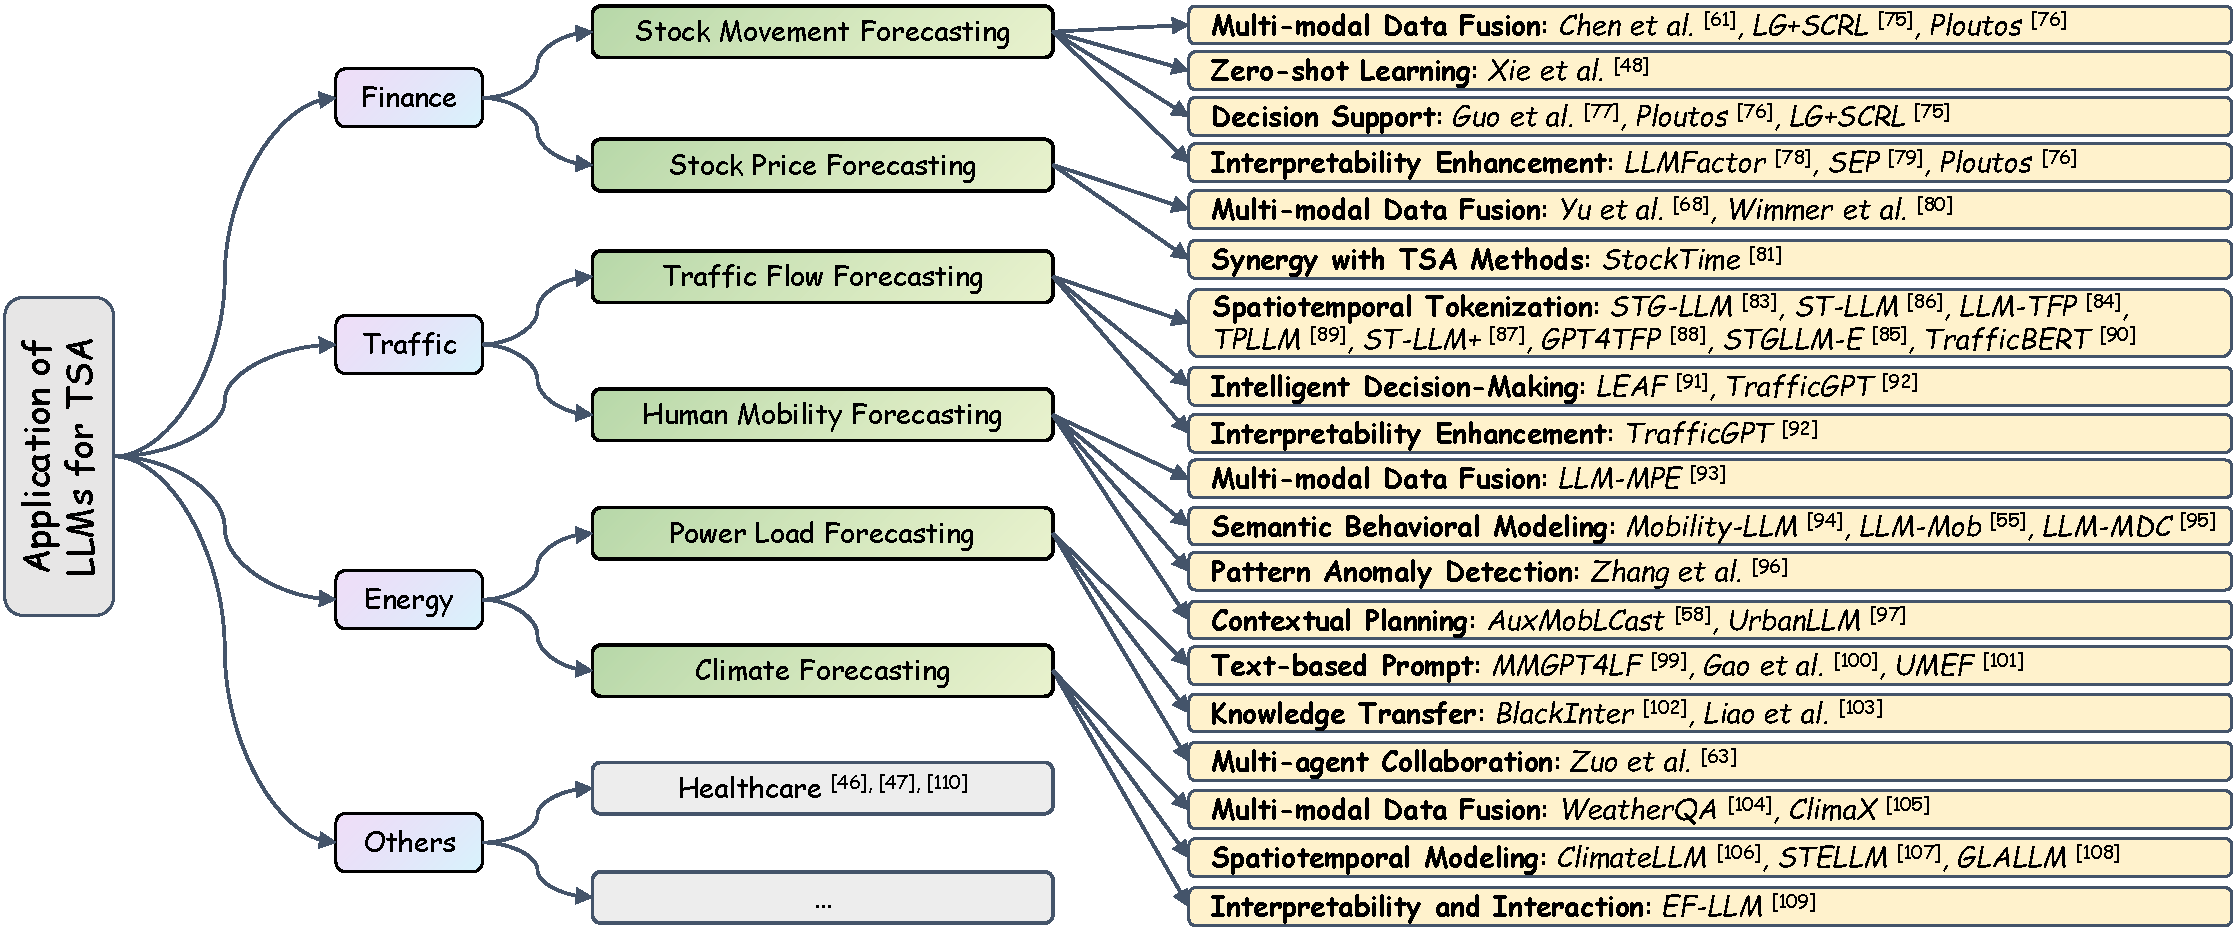
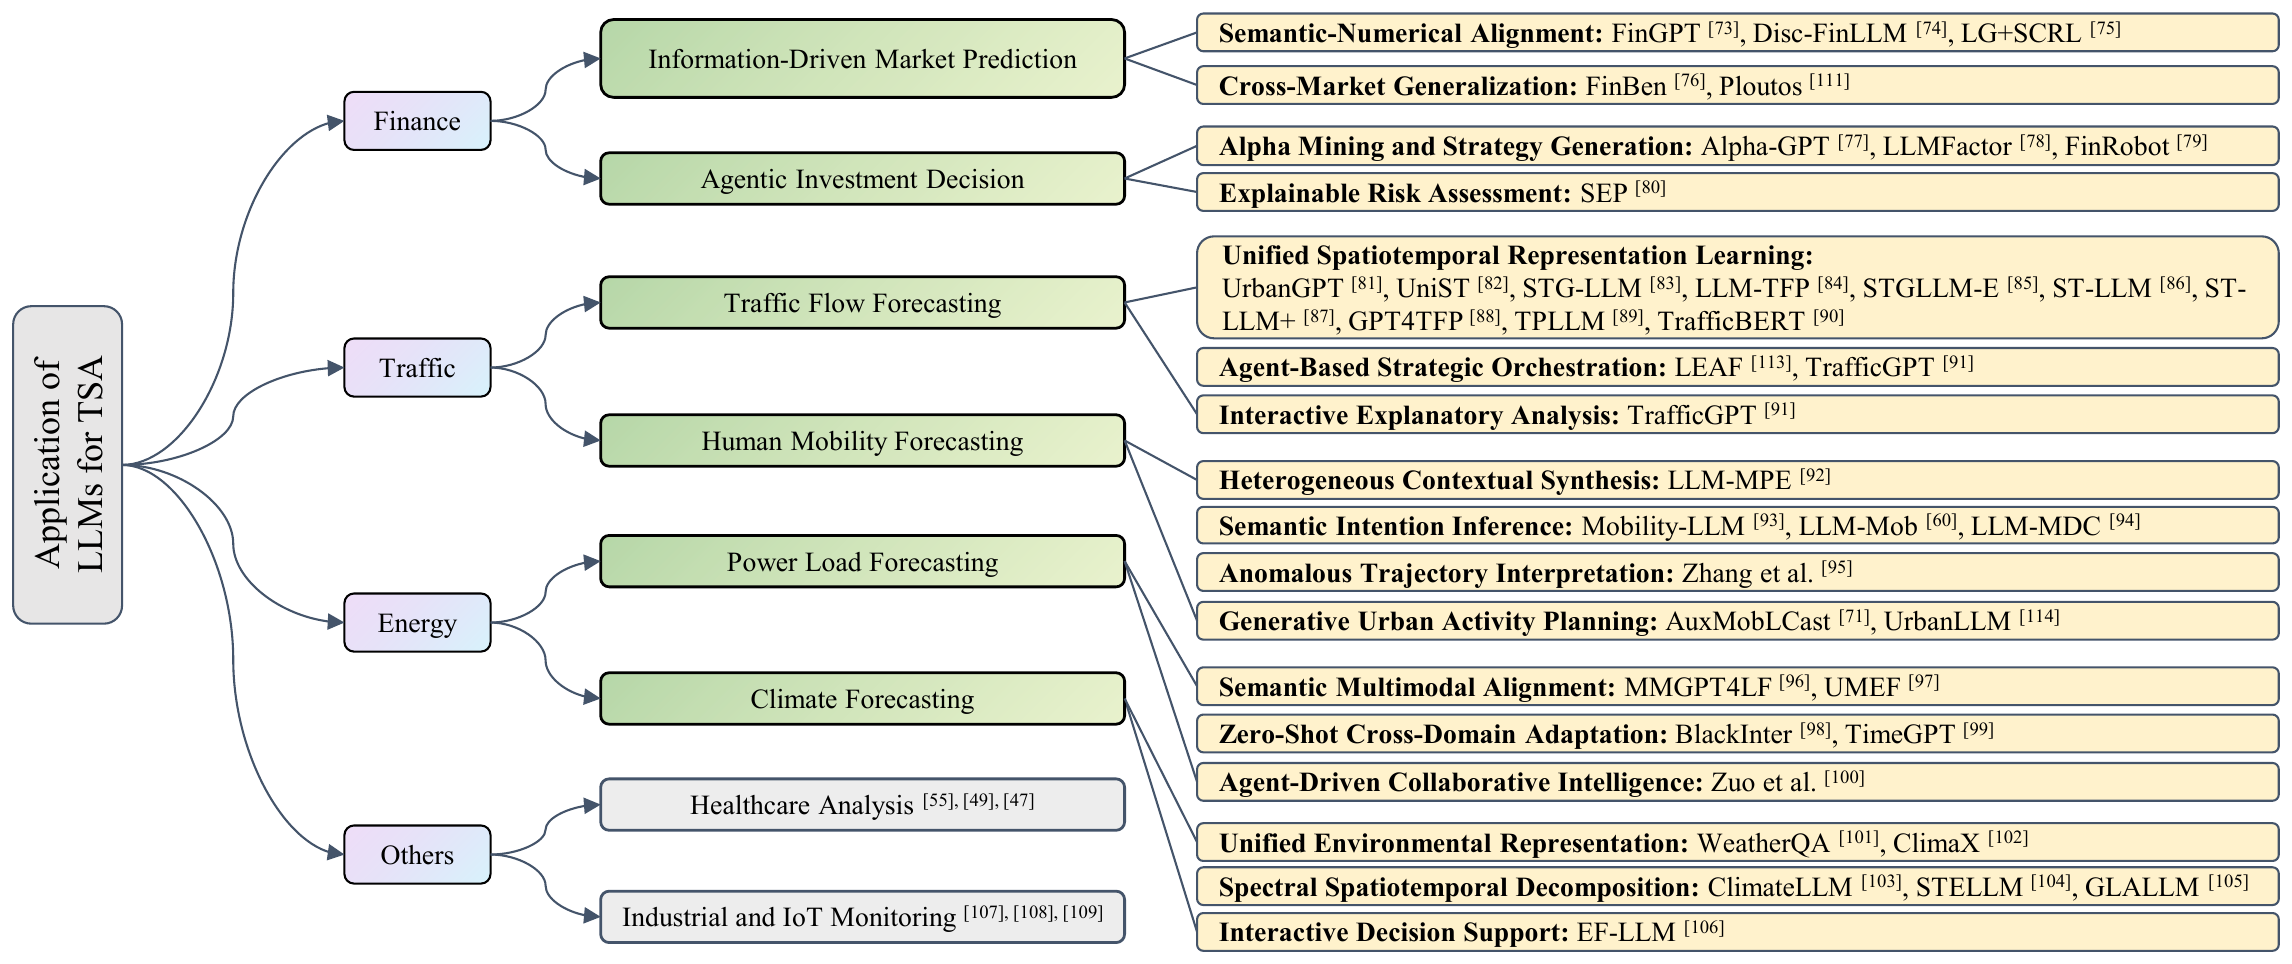
Sync repo with final survey manuscript: taxonomy, papers, figures
- Align the three LLM-role names with the paper (Direct Inference Engines /
  Static Feature Enhancers / Dynamic Task Controllers); keep old names as subtitles
- Add methods: LLM-ABBA, TimeRAF, MetaIndux-TS, prototype-guided TSFM normalization,
  AV2TS, text-prompt traffic MLLM, LLM-informed ECG
- Add surveys (FM tutorial-and-survey, Empowering-TSA-with-FMs) and TSRBench benchmark
- Fix venues: TableTime (CIKM 2025), TENT (IEEE TMC 2026), MedualTime (IJCAI 2025),
  UrbanLLM (EMNLP), Transfer-NL-to-ECG (EACL), Embracing-LLMs-in-traffic (ACL 2025)
- Fix LLM4FTS authors (Zian Liu, Renjun Jia); update FinTSB to Frontiers of
  Computer Science 2026 (published); add PeakFocus to the BibTeX block
- Add Figure 2 (role architectures); re-export framework/application PNGs and trim borders
- Update header counts and Recent Update note

diff --git a/README.md b/README.md
@@ -5,8 +5,8 @@
 
 **📈 A Comprehensive Collection of Papers, Codes & Resources for Time Series Analysis**
 
-[![Paper Count](https://img.shields.io/badge/Papers-240+-blue)](https://github.com/TongjiFinLab/awesome-time-series-forecasting)
-[![Last Update](https://img.shields.io/badge/Last%20Update-April%202026-green)](https://github.com/TongjiFinLab/awesome-time-series-forecasting)
+[![Paper Count](https://img.shields.io/badge/Papers-250+-blue)](https://github.com/TongjiFinLab/awesome-time-series-forecasting)
+[![Last Update](https://img.shields.io/badge/Last%20Update-June%202026-green)](https://github.com/TongjiFinLab/awesome-time-series-forecasting)
 [![Stars](https://img.shields.io/badge/Stars%3F-180+-green.svg)](https://github.com/TongjiFinLab/awesome-time-series-forecasting/graphs/commit-activity)
 
 </div>
@@ -24,6 +24,12 @@
 **🔥 Collaboration:**  
 If you notice any missing content or would like to contribute, please feel free to reach out!
 
+> ✨ **Recent Update (June 2026)**
+>
+> Updated the papers and figures.
+>
+> ---
+>
 > ✨ **Recent Update (April 5, 2026)**
 >
 > We have added **~40 new papers** covering the latest advances from **ICLR 2026, ICML 2025, NeurIPS 2025, KDD 2025/2026, AAAI 2026, IJCAI 2025**, and more. Key additions include:
@@ -78,9 +84,9 @@ If you find this project helpful, please don't forget to give it a ⭐ Star to s
 
 - [A. Large Language Models](#a-large-language-models)
   - [Taxonomy of Roles and Unified Workflows](#taxonomy-of-roles-and-unified-workflows)
-    - [Role 1: Fine-tune-based Inference Engines](#role-1-fine-tune-based-inference-engines)
-    - [Role 2: Enhancer based on TSA Methods](#role-2-enhancer-based-on-tsa-methods)
-    - [Role 3: Hybrid Collaborators](#role-3-hybrid-collaborators)
+    - [Role 1: Direct Inference Engines](#role-1-direct-inference-engines)
+    - [Role 2: Static Feature Enhancers](#role-2-static-feature-enhancers)
+    - [Role 3: Dynamic Task Controllers](#role-3-dynamic-task-controllers)
   - [Application](#application)
     - [Finance](#finance)
     - [Traffic](#traffic)
@@ -110,6 +116,13 @@ If you find this project helpful, please don't forget to give it a ⭐ Star to s
 </div>
 
 ### Taxonomy of Roles and Unified Workflows
+
+<div align="center">
+  <img src="figs/role_arch.png" alt="Architectural diagrams of the three LLM roles" width=800/>
+</div>
+<div align="center">
+  <b>Figure 2: Architectural diagrams of the three roles — (a) Direct Inference Engine, (b) Static Feature Enhancer, and (c) Dynamic Task Controller — illustrating how deeply the LLM is integrated into the TSA pipeline.</b>
+</div>
 
 <div align="center"><sub>
 
@@ -158,11 +171,12 @@ If you find this project helpful, please don't forget to give it a ⭐ Star to s
 </sub></div>
 
 
-<sub>***Note**: **IE** stands for Inference Engine, **E** stands for Enhancer, **IE+E** stands for the combination of Inference Engine and Enhancer, and **HC** stands for Hybrid Collaborator.*</sub>
+<sub>***Note**: Roles follow the survey taxonomy — **IE** = Inference Engine (Direct Inference Engine), **E** = Enhancer (Static Feature Enhancer), **IE+E** = the combination of the two, and **HC** = Hybrid Collaborator (Dynamic Task Controller).*</sub>
 
 
 
-#### Role 1: Fine-tune-based Inference Engines 
+#### Role 1: Direct Inference Engines
+*(a.k.a. Fine-tune-based Inference Engines)* 
 
 ##### Tokenization Approaches <!-- omit in toc -->
 
@@ -175,7 +189,7 @@ If you find this project helpful, please don't forget to give it a ⭐ Star to s
 
 - **MedualTime: A Dual-Adapter Language Model for Medical Time Series-Text Multimodal Learning**  
   Ye, Jiexia and Zhang, Weiqi and Li, Ziyue and Li, Jia and Zhao, Meng and Tsung, Fugee  
-  arXiv, 2024.  
+  IJCAI 2025.  
   [Paper](https://arxiv.org/abs/2406.06620) | [Code](https://github.com/start2020/MedualTime)
 
 
@@ -184,6 +198,11 @@ If you find this project helpful, please don't forget to give it a ⭐ Star to s
   IEEE TKDE, 2023.  
   [Paper](https://ieeexplore.ieee.org/document/10123956) | [Code](https://github.com/haoxue2/PromptCast)
 
+
+- **LLM-ABBA: Understanding Time Series via Symbolic Approximation**  
+  Xinye Chen, Erin Carson, Cheng Kang  
+  IEEE Transactions on Signal Processing, 2026.  
+  [Paper](https://doi.org/10.1109/TSP.2026.3662011)
 
 ###### Patch-level Tokenization <!-- omit in toc -->
 
@@ -254,7 +273,7 @@ If you find this project helpful, please don't forget to give it a ⭐ Star to s
 
 - **TableTime: Reformulating Time Series Classification as Training-Free Table Understanding with Large Language Models**  
   Jiahao Wang, Mingyue Cheng, Qingyang Mao, Yitong Zhou, Feiyang Xu, Xin Li  
-  arXiv 2024.  
+  CIKM 2025.  
   [Paper](https://arxiv.org/abs/2411.15737)
 
 - **The Wall Street Neophyte: A Zero-Shot Analysis of ChatGPT Over MultiModal Stock Movement Prediction Challenges**  
@@ -328,7 +347,7 @@ If you find this project helpful, please don't forget to give it a ⭐ Star to s
 
 - **Transfer knowledge from natural language to electrocardiography: Can we detect cardiovascular disease through language models?**  
   Jielin Qiu, William Han, Jiacheng Zhu, Mengdi Xu, Michael Rosenberg, Emerson Liu, Douglas Weber, Ding Zhao  
-  arXiv 2023.  
+  Findings of EACL, 2023.  
   [Paper](https://arxiv.org/abs/2301.09017) | [Code](https://github.com/Jielin-Qiu/Transfer_Knowledge_from_Language_to_ECG)
 
 - **S²IP-LLM: Semantic space informed prompt learning with LLM for time series forecasting**  
@@ -350,7 +369,7 @@ If you find this project helpful, please don't forget to give it a ⭐ Star to s
 
 - **Tent: Connect language models with IoT sensors for zero-shot activity recognition**  
   Yunjiao Zhou, Jianfei Yang, Han Zou, Lihua Xie  
-  arXiv 2023.  
+  IEEE Transactions on Mobile Computing, 2026.  
   [Paper](https://arxiv.org/abs/2311.08245)
 
 ##### Fine-tuning <!-- omit in toc -->
@@ -429,7 +448,8 @@ If you find this project helpful, please don't forget to give it a ⭐ Star to s
   ICML 2024.  
   [Paper](https://openreview.net/pdf?id=qwQVV5R8Y7) | [Code](https://github.com/panzijie825/S2IP-LLM)
 
-#### Role 2: Enhancer based on TSA Methods
+#### Role 2: Static Feature Enhancers
+*(a.k.a. Enhancer based on TSA Methods)*
 
 ##### Enhancement of Time Series Data <!-- omit in toc -->
 
@@ -491,6 +511,11 @@ If you find this project helpful, please don't forget to give it a ⭐ Star to s
   arXiv 2025.  
   [Paper](https://arxiv.org/abs/2508.11954)
 
+- **AV2TS: A Multivariate Time Series Modeling Framework for Audio-Visual Segmentation**  
+  Li Shen, Yangzhu Wang, Xuyi Fan, Yuning Wei, Huaxin Qiu  
+  IEEE Transactions on Multimedia, 2026.  
+  [Paper](https://doi.org/10.1109/TMM.2026.3654457)
+
 ##### Enhancement of Interpretability <!-- omit in toc -->
 
 - **Can "Slow-thinking" LLMs Make Time Series Predictions More Reliable? Enhancing LLM-based Time Series Forecasting via Chain-of-Thought Prompting**  
@@ -513,7 +538,8 @@ If you find this project helpful, please don't forget to give it a ⭐ Star to s
   arXiv 2025.  
   [Paper](https://arxiv.org/pdf/2507.15066?)
 
-#### Role 3: Hybrid Collaborators
+#### Role 3: Dynamic Task Controllers
+*(a.k.a. Hybrid Collaborators)*
 
 - **Domain-Oriented Time Series Inference Agents for Reasoning and Automated Analysis**  
   Wen Ye, Wei Yang, Defu Cao, Yizhou Zhang, Lumingyuan Tang, Jie Cai, Yan Liu  
@@ -562,7 +588,7 @@ If you find this project helpful, please don't forget to give it a ⭐ Star to s
 </div>
 
 <div align="center">
-  <b>Figure 2: An overview of the application of LLMs for TSA.</b>
+  <b>Figure 3: An overview of the application of LLMs for TSA.</b>
 </div>
 
 #### Finance
@@ -627,7 +653,7 @@ If you find this project helpful, please don't forget to give it a ⭐ Star to s
   [Paper](https://arxiv.org/pdf/2409.08281?)
 
 - **LLM4FTS: Enhancing Large Language Models for Financial Time Series Prediction**  
-  Dawei Cheng et al.  
+  Zian Liu, Renjun Jia  
   arXiv 2025.  
   [Paper](https://arxiv.org/abs/2505.02880)
 
@@ -685,13 +711,18 @@ If you find this project helpful, please don't forget to give it a ⭐ Star to s
 
 - **Embracing large language models in traffic flow forecasting**  
   Yusheng Zhao, Xiao Luo, Haomin Wen, Zhiping Xiao, Wei Ju, Ming Zhang  
-  arXiv 2024.  
+  Findings of ACL, 2025.  
   [Paper](https://arxiv.org/pdf/2412.12201)
 
 - **TrafficGPT: Viewing, processing and interacting with traffic foundation models**  
   Siyao Zhang, Daocheng Fu, Wenzhe Liang, Zhao Zhang, Bin Yu, Pinlong Cai, Baozhen Yao  
   Transport Policy, 2024.  
   [Paper](https://www.sciencedirect.com/science/article/pii/S0967070X24000726) | [Code](https://github.com/lijlansg/TrafficGPT)
+
+- **Emergency Events Traffic Flow Forecasting Using Text-Prompt-Guided Multimodal Large Language Models**  
+  Yaxuan Lu, Guangyu Huo, Xiaohui Cui, Boyue Wang, Yong Zhang, Zhiyong Cui  
+  IEEE Transactions on Intelligent Transportation Systems, 2026.  
+  [Paper](https://doi.org/10.1109/TITS.2026.3672914)
 
 #### Human Mobility Forecasting <!-- omit in toc -->
 
@@ -727,7 +758,7 @@ If you find this project helpful, please don't forget to give it a ⭐ Star to s
 
 - **UrbanLLM: Autonomous Urban Activity Planning and Management with Large Language Models**  
   Yifei Jiang, Xinyan Zhu, Jiayu Fan, Hua Wei  
-  arXiv, 2024.  
+  EMNLP 2024.  
   [Paper](https://arxiv.org/pdf/2406.12360) | [Code](https://github.com/JIANGYUE61610306/UrbanLLM/tree/main)
 
 #### Energy
@@ -810,8 +841,13 @@ If you find this project helpful, please don't forget to give it a ⭐ Star to s
 
 - **MedualTime: A Dual-Adapter Language Model for Medical Time Series-Text Multimodal Learning**  
   Ye, Jiexia; Zhang, Weiqi; Li, Ziyue; Li, Jia; Zhao, Meng; Tsung, Fugee  
-  arXiv, 2024.  
+  IJCAI 2025.  
   [Paper](https://arxiv.org/abs/2406.06620) | [Code](https://github.com/start2020/MedualTime)
+
+- **Large Language Model-informed ECG Dual Attention Network for Heart Failure Risk Prediction**  
+  Chen Chen, Lei Li, Marcel Beetz, Abhirup Banerjee, Ramneek Gupta, Vicente Grau  
+  IEEE Transactions on Big Data, 2025.  
+  [Paper](https://arxiv.org/abs/2403.10581)
 
 ## B. Foundation Models
 
@@ -907,6 +943,21 @@ If you find this project helpful, please don't forget to give it a ⭐ Star to s
 - **Are Time Series Foundation Models Ready for Zero-Shot Forecasting?**  
   ICML 2025.  
   [Paper](https://icml.cc/virtual/2025/47480)
+
+- **TimeRAF: Retrieval-Augmented Foundation Model for Zero-Shot Time Series Forecasting**  
+  Huanyu Zhang, Chang Xu, Yi-Fan Zhang, Zhang Zhang, Liang Wang, Jiang Bian  
+  IEEE Transactions on Knowledge and Data Engineering, 2025.  
+  [Paper](https://doi.org/10.1109/TKDE.2025.3579137)
+
+- **MetaIndux-TS: Frequency-Aware AIGC Foundation Model for Industrial Time Series**  
+  Haiteng Wang, Lei Ren, Yikang Li, Yuqing Wang  
+  IEEE Transactions on Neural Networks and Learning Systems, 2025.  
+  [Paper](https://doi.org/10.1109/TNNLS.2025.3577203)
+
+- **Bridging Distribution Gaps in Time Series Foundation Model Pretraining With Prototype-Guided Normalization**  
+  Peiliang Gong, Emadeldeen Eldele, Min Wu, Zhenghua Chen, Xiaoli Li, Daoqiang Zhang  
+  IEEE Transactions on Neural Networks and Learning Systems, 2026.  
+  [Paper](https://doi.org/10.1109/TNNLS.2026.3673975)
 
 ## C. Graph Neural Network-based Models
 
@@ -1252,13 +1303,27 @@ If you find this project helpful, please don't forget to give it a ⭐ Star to s
 
 - **FinTSB: A Comprehensive and Practical Benchmark for Financial Time Series Forecasting**  
   Yifan Hu, Yuante Li, Peiyuan Liu, Yuxia Zhu, Naiqi Li, Tao Dai, Shu-tao Xia, Dawei Cheng, Changjun Jiang  
-  ICAIFW 2025 (Best Paper).  
-  [Paper](https://arxiv.org/abs/2502.18834)
+  Frontiers of Computer Science, 2026 (Best Paper, ICAIFW 2025).  
+  [Paper](https://doi.org/10.1007/s11704-026-51064-5) | [arXiv](https://arxiv.org/abs/2502.18834)
 
 - **Large Models for Time Series and Spatio-Temporal Data: A Survey and Outlook**  
   Ming Jin, Qingsong Wen, Yuxuan Liang, Chaoli Zhang, Siqiao Xue, Xue Wang, James Zhang, Yi Wang, Haifeng Chen, Xiaoli Li, Shirui Pan, Vincent S. Tseng, Yu Zheng, Lei Chen, Hui Xiong  
   arXiv, 2023.  
   [Paper](https://doi.org/10.48550/arXiv.2310.10196)
+
+- **Foundation Models for Time Series Analysis: A Tutorial and Survey**  
+  Yuxuan Liang, Haomin Wen, Yuqi Nie, Yushan Jiang, Ming Jin, Dongjin Song, Shirui Pan, Qingsong Wen  
+  SIGKDD, 2024.  
+  [Paper](https://doi.org/10.1145/3637528.3671451)
+
+- **Empowering Time Series Analysis with Foundation Models: A Comprehensive Survey**  
+  Jiexia Ye, Yongzi Yu, Weiqi Zhang, Le Wang, Jia Li, Fugee Tsung  
+  arXiv 2025.  
+  [Paper](https://arxiv.org/abs/2405.02358)
+
+- **TSRBench: A Comprehensive Multi-task Multi-modal Time Series Reasoning Benchmark for Generalist Models**  
+  arXiv 2026.  
+  [Paper](https://arxiv.org/abs/2601.18744)
 
 
 ## 📚 **Citation**
@@ -1284,11 +1349,13 @@ If you find this project helpful, please don't forget to give it a ⭐ Star to s
   year={2025},
 }
 
-@article{hu2025fintsb,
+@article{hu2026fintsb,
   title={FinTSB: A Comprehensive and Practical Benchmark for Financial Time Series Forecasting}, 
-  author={Yifan Hu and Yuante Li and Peiyuan Liu and Yuxia Zhu and Naiqi Li and Tao Dai and Shu-tao Xia and Dawei Cheng and Changjun Jiang},
-  journal={arXiv preprint arXiv:2502.18834},
-  year={2025},
+  author={Hu, Yifan and Li, Yuante and Liu, Peiyuan and Zhu, Yuxia and Li, Naiqi and Dai, Tao and Xia, Shu-tao and Cheng, Dawei and Jiang, Changjun},
+  journal={Frontiers of Computer Science},
+  year={2026},
+  issn={2095-2228},
+  doi={10.1007/s11704-026-51064-5}
 }
 
 @article{hu2025finmamba,
@@ -1298,8 +1365,7 @@ If you find this project helpful, please don't forget to give it a ⭐ Star to s
   year={2025}
 }
 
-@inproceedings{
-  hu2025timefilter,
+@inproceedings{hu2025timefilter,
   title={TimeFilter: Patch-Specific Spatial-Temporal Graph Filtration for Time Series Forecasting},
   author={Yifan Hu and Guibin Zhang and Peiyuan Liu and Disen Lan and Naiqi Li and Dawei Cheng and Tao Dai and Shu-Tao Xia and Shirui Pan},
   booktitle={ICML},
@@ -1334,11 +1400,18 @@ If you find this project helpful, please don't forget to give it a ⭐ Star to s
   year={2025}
 }
 
-@article{hu2025llm4fts,
+@article{liu2025llm4fts,
   title={LLM4FTS: Enhancing Large Language Models for Financial Time Series Prediction},
-  author={Hu, Yifan and others},
+  author={Liu, Zian and Jia, Renjun},
   journal={arXiv preprint arXiv:2505.02880},
   year={2025}
+}
+
+@article{yu2026peakfocus,
+  title={PeakFocus: Bridging Peak Localization and Intensity Regression via a Unified Multi-Scale Framework for Electricity Load Forecasting},
+  author={Yu, Wangzhi and Zhu, Peng and Zhao, Qing and Jiang, Yiwen and Cheng, Dawei},
+  journal={arXiv preprint arXiv:2605.21550},
+  year={2026}
 }
 ```
 
